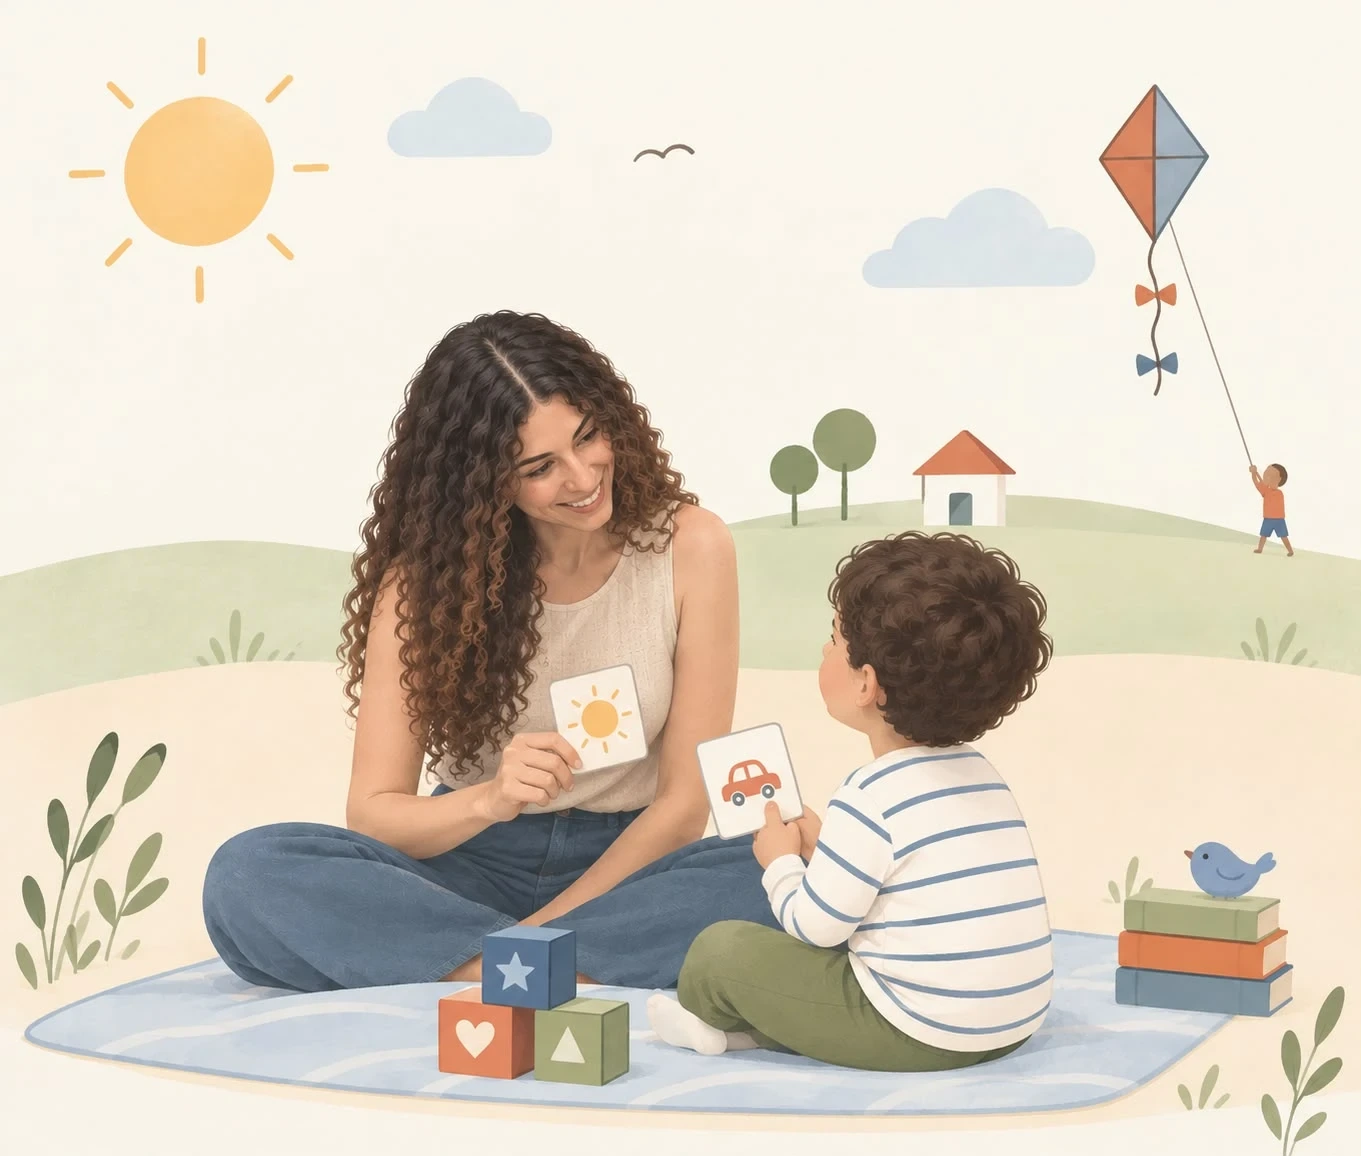
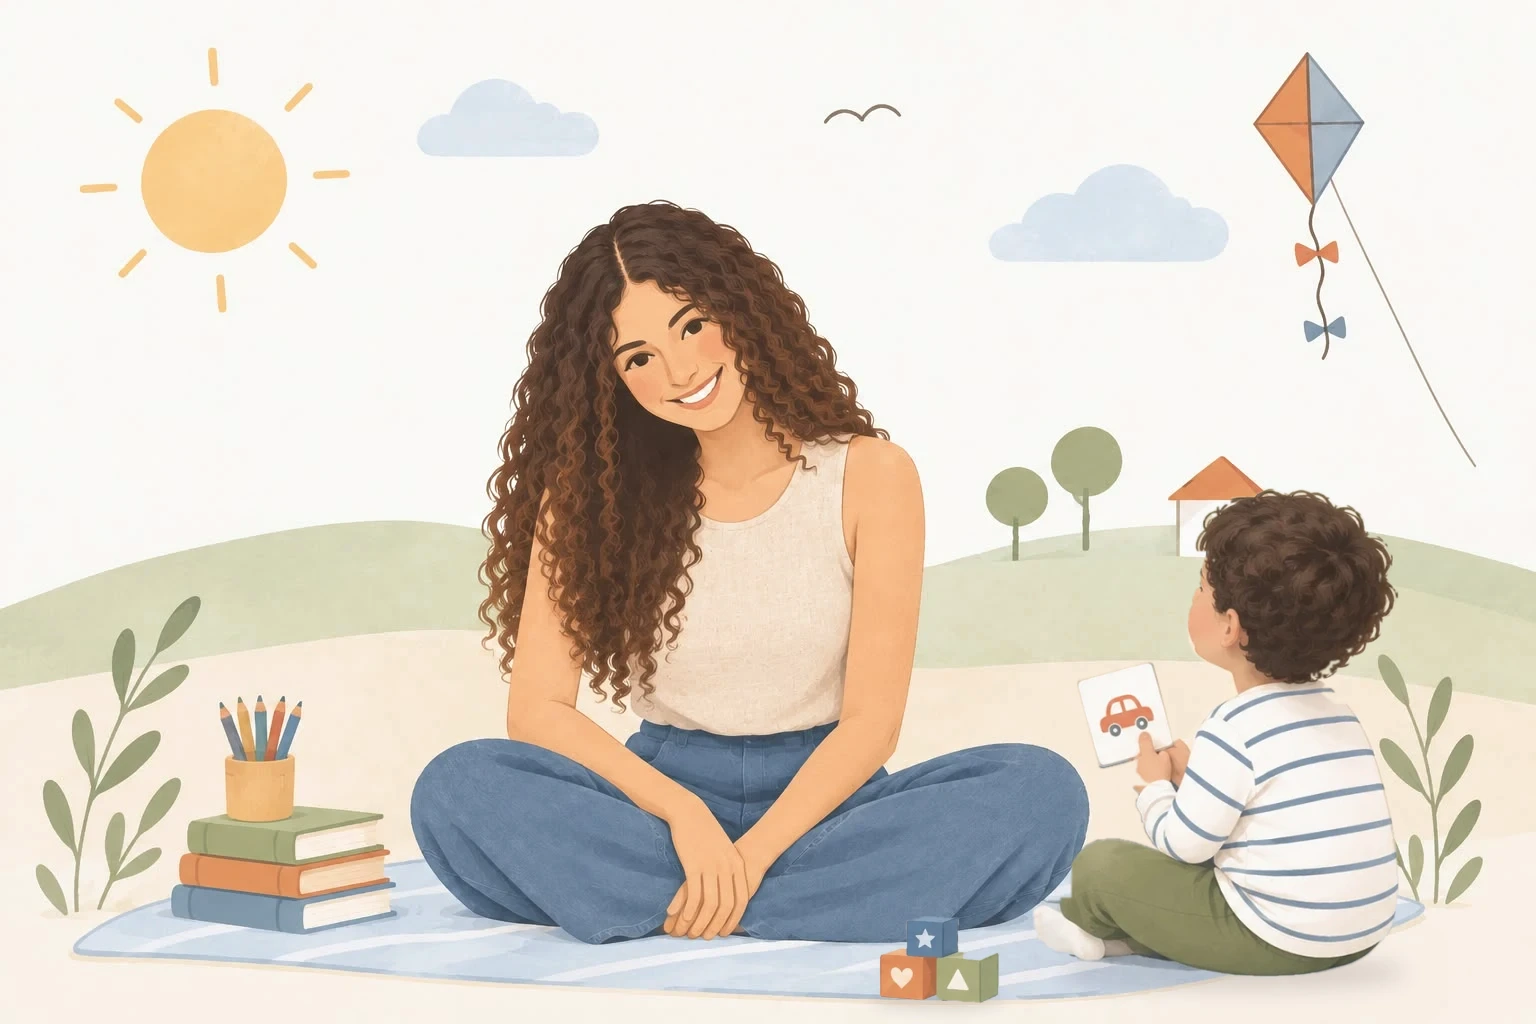
Use the new painting of Jessy on the homepage and About Me
About Me shows the client's new picture of Jessy as supplied. The
homepage uses the same picture with the child from the previous scene
seated on the rug beside her, facing her with his picture card, and the
toy blocks moved to the front between them.

Both pictures' pale background was shifted to the page colour (skin,
hair, clothes and toys untouched), so their faded edges blend into the
page. The homepage picture is a little larger on wide screens, the
About Me one has room for its landscape shape, and the link-sharing
image uses the new homepage picture.

Claude-Session: https://claude.ai/code/session_01K6ajnfjFq2mRWVZaHpA7oL

diff --git a/src/_includes/css/main.css b/src/_includes/css/main.css
@@ -916,6 +916,17 @@ a:focus-visible .mark {
   height: auto;
 }
 
+/* The painted scene is wide: on larger screens it reaches a little into the gap and the
+   page margin (its edges fade out), so Jessy isn't drawn too small. */
+@media (min-width: 56em) {
+  .hero__art {
+    width: calc(100% + 2rem + var(--gutter) * 0.8);
+    max-width: 46rem;
+    margin-right: calc(var(--gutter) * -0.8);
+    justify-self: end;
+  }
+}
+
 /* The painted scenes fade softly into the page at their edges. */
 .scene {
   -webkit-mask-image:
@@ -1469,10 +1480,19 @@ a:focus-visible .mark {
   height: auto;
 }
 
+/* The painted scene is landscape, so it gets more room than a portrait photo. */
+.about-intro__media--scene {
+  width: min(100%, 30rem);
+}
+
 @media (max-width: 55.99em) {
   .about-intro__media {
     width: min(80%, 20rem);
     justify-self: center;
+  }
+
+  .about-intro__media--scene {
+    width: min(100%, 32rem);
   }
 }
 

diff --git a/README.md b/README.md
@@ -197,9 +197,10 @@ For anyone editing the site later:
   drawn as SVG for this site, so they stay sharp and light. Scenes show parent and
   child play, picture cards, blocks, books, a kite and rolling hills. Large scenes
   are in `src/assets/illustrations/`; icons are in `src/_includes/partials/sprite.njk`.
-  The homepage and About Me show a soft painted scene of Jessy with a child, supplied
-  by the client (`src/assets/art/`; the About Me one is a closer crop). The build
-  makes sized WebP copies of it, and its edges fade into the page.
+  The homepage and About Me show soft painted pictures of Jessy supplied by the client
+  (`src/assets/art/`): on the homepage with a child on the rug beside her, on About Me
+  on her own. Their pale background was matched to the page colour, the build makes
+  sized WebP copies, and their edges fade into the page.
   Each Area of Expertise (and its subsections), How I Work principle and For Parents
   question picks its icon in the CMS, and each About Me section can show a small
   illustration beside its text. Longer passages have a faint layer of hand-drawn
